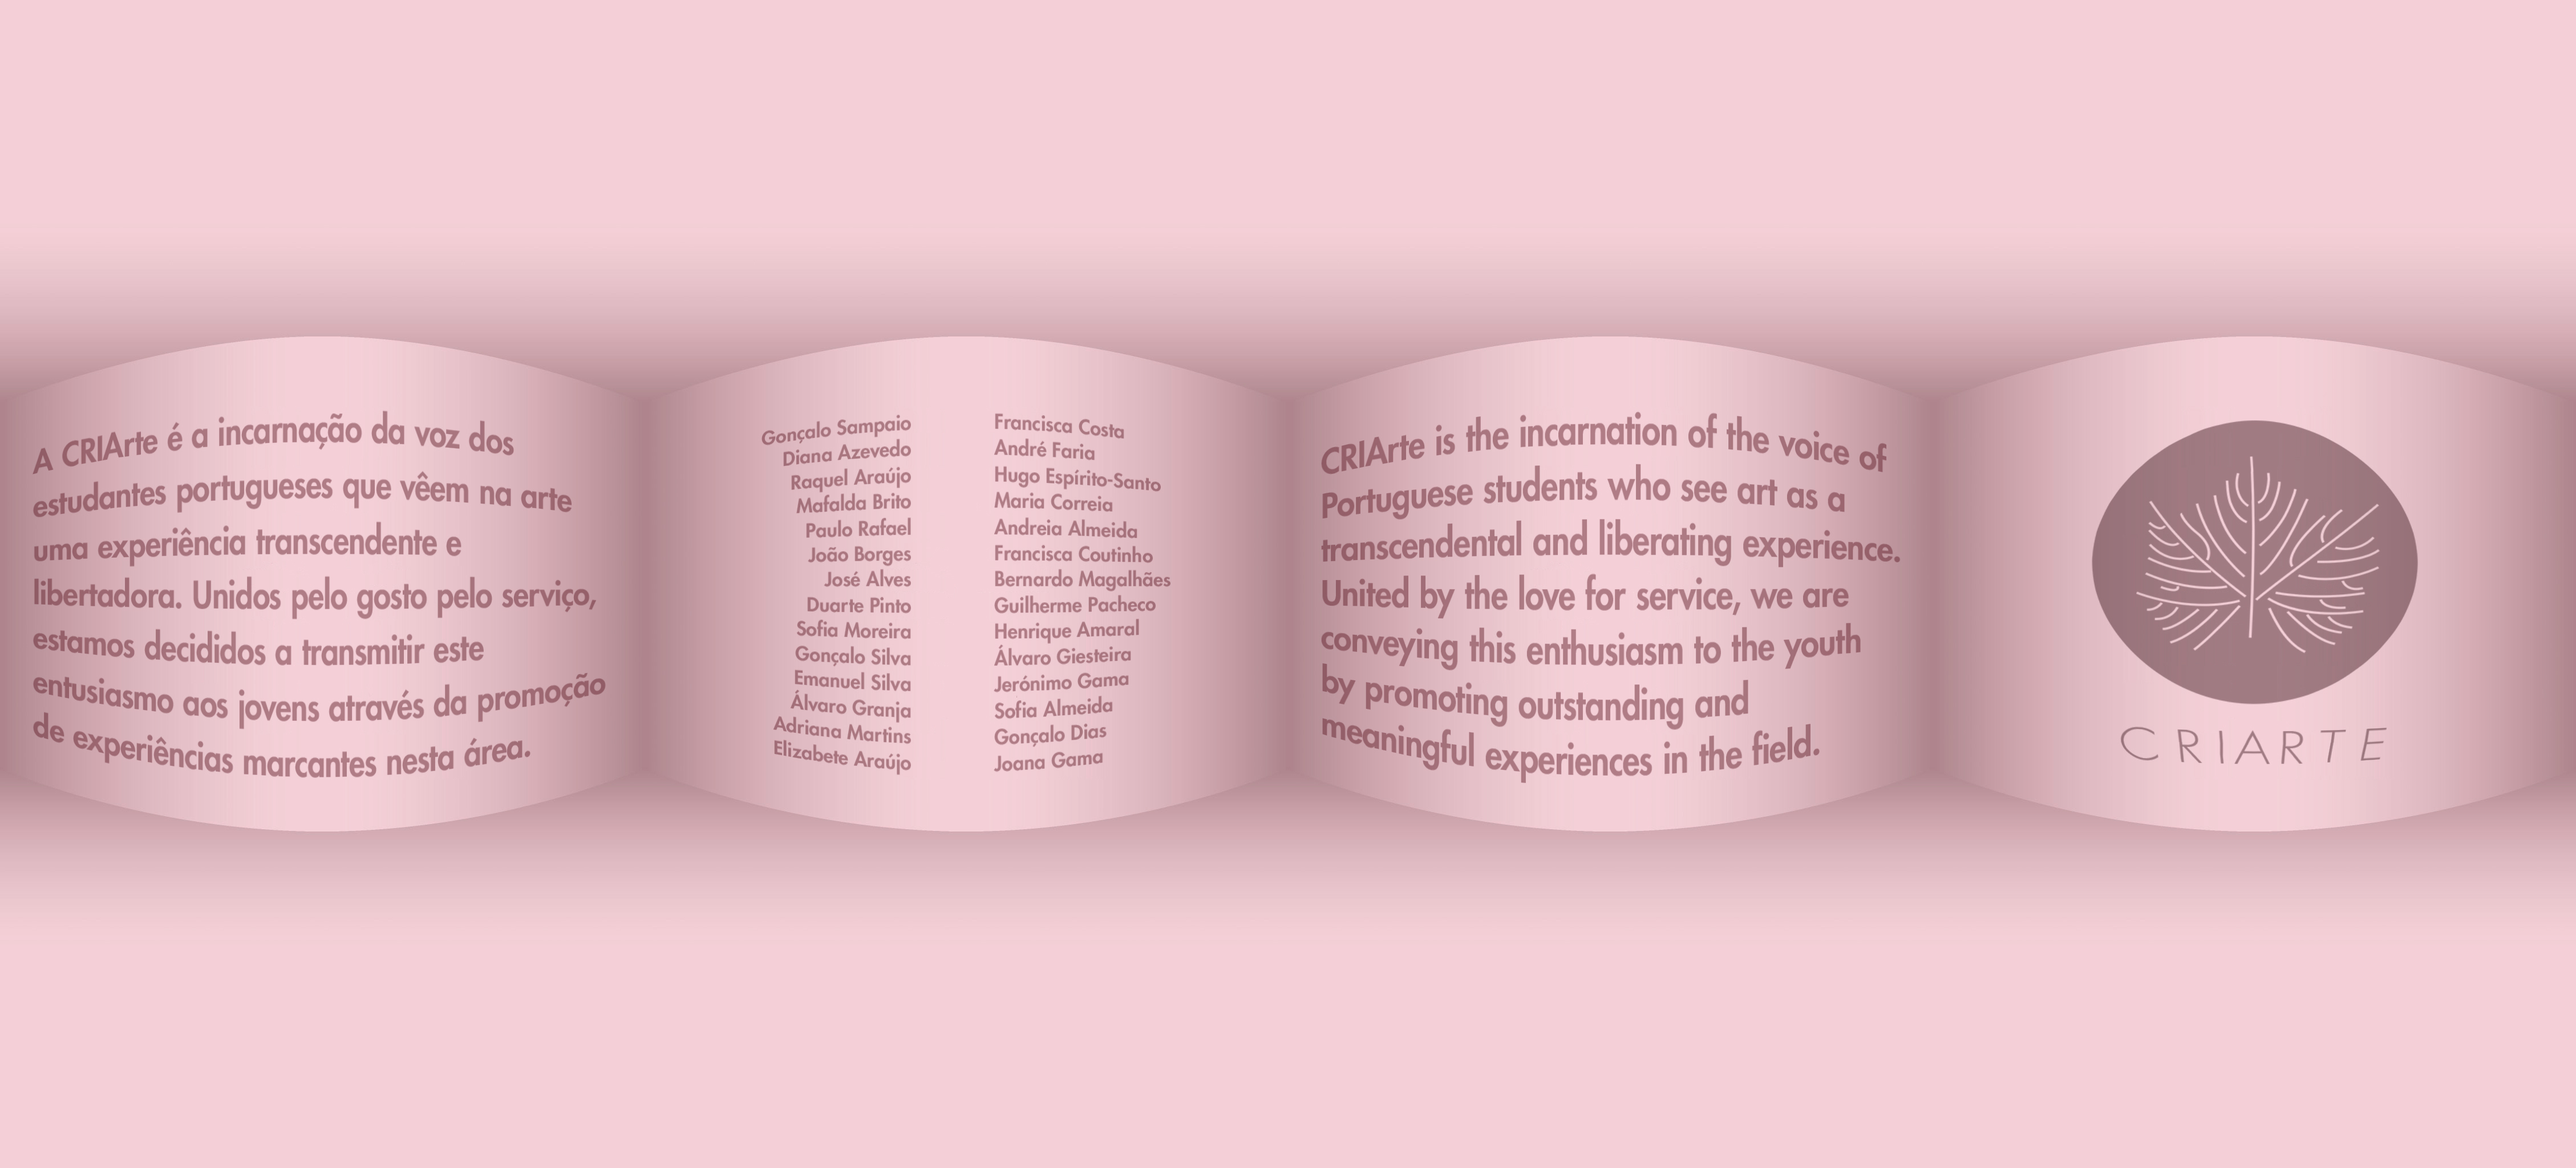
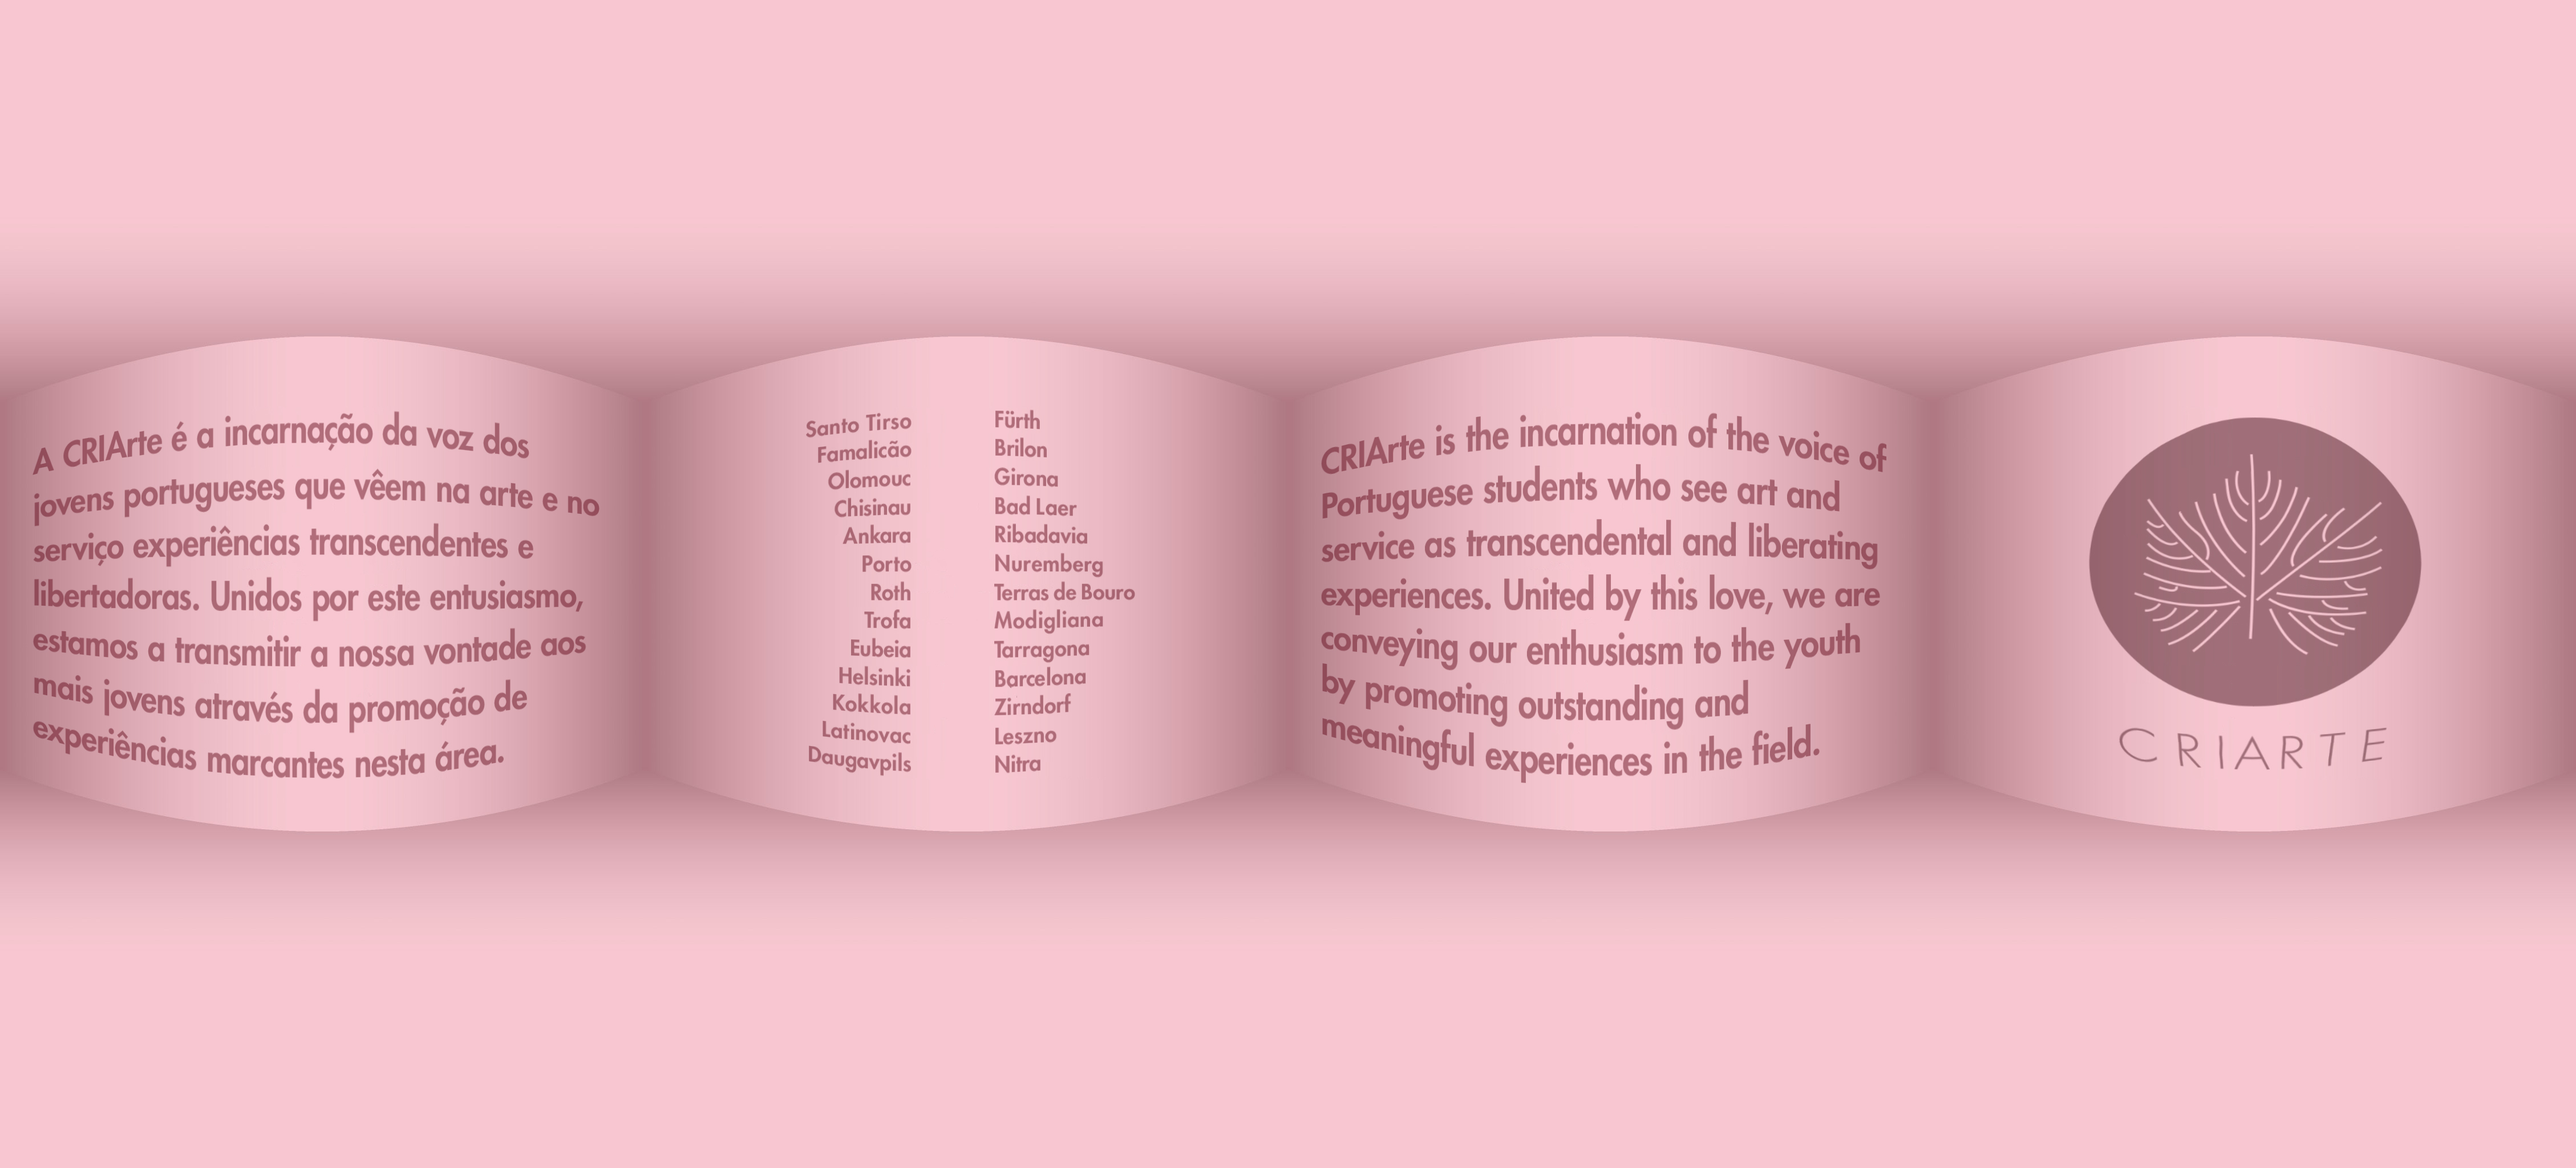
nu

diff --git a/index.html b/index.html
@@ -1,15 +1,16 @@
 <html><head><meta http-equiv="Content-Type" content="text/html; charset=windows-1252">
         <title>Associa&ccedil;&atilde;o CRIArte</title>
-        <meta name="description" content="CRIArte is the incarnation of the voice of Portuguese students who see art as a transcendental and liberating experience. United by the love for service, we are conveying this enthusiasm to the youth by promoting outstanding and meaningful experiences in the field.">
+        <meta name="description" content="CRIArte is the incarnation of the voice of Portuguese students who see art and service as transcendental and liberating experiences. United by this love, we are conveying our enthusiasm to the youth by promoting outstanding and meaningful experiences in the field.">
         <meta property="og:type" content="article">
-        <meta property="og:image" content="http://sampaio96.github.io/criarte/assets/press.jpg" />
-        <meta property="og:url" content="http://sampaio96.github.io/criarte">
-        <meta property="og:description" content="CRIArte is the incarnation of the voice of Portuguese students who see art as a transcendental and liberating experience. United by the love for service, we are conveying this enthusiasm to the youth by promoting outstanding and meaningful experiences in the field.">
+        <meta property="og:image" content="http://associacao-criarte.github.io/assets/press.jpg" />
+        <meta property="og:url" content="http://associacao-criarte.github.io">
+        <meta property="og:description" content="CRIArte is the incarnation of the voice of Portuguese students who see art and service as transcendental and liberating experiences. United by this love, we are conveying our enthusiasm to the youth by promoting outstanding and meaningful experiences in the field.">
         <meta name="twitter:card" content="summary_large_image">
         <meta name="twitter:site" content="@gsampaio96">
         <meta name="twitter:creator" content="@gsampaio96">
-        <meta name="twitter:title" content="CRIArte is the incarnation of the voice of Portuguese students who see art as a transcendental and liberating experience. United by the love for service, we are conveying this enthusiasm to the youth by promoting outstanding and meaningful experiences in the field.">
-        <meta name="twitter:image" content="http://sampaio96.github.io/criarte/assets/press.jpg">
+        <meta name="twitter:title" content="CRIArte is the incarnation of the voice of Portuguese students who see art and service as transcendental and liberating experiences. United by this love, we are conveying our enthusiasm to the youth by promoting outstanding and meaningful experiences in the field."><!-- 
+        A CRIArte é a incarnação da voz dos jovens portugueses que vêem na arte e no serviço uma experiência transcendente e libertadora. Unidos por este entusiasmo, estamos a transmitir a nossa vontade aos jovens através da promoção de experiências marcantes nesta área. -->
+        <meta name="twitter:image" content="http://associacao-criarte.github.io/assets/press.jpg">
         
         <meta name="viewport" content="width=device-width">
         <link rel="stylesheet" href="./room.css">
@@ -40,20 +41,20 @@
 </script>
 
 <script type="text/javascript">
-        window.onload = alternatepten();
+    window.onload = alternatepten();
 
-        function alternatepten() {
-            setInterval(function() {
-                if (document.getElementById("pt").style.display == "none") {
-                    document.getElementById("pt").style.display = "flex";
-                    document.getElementById("en").style.display = "none";
-                }
-                else {
-                    document.getElementById("pt").style.display = "none";
-                    document.getElementById("en").style.display = "flex";
-                }
-            }, 4000);
-        }
+    function alternatepten() {
+        setInterval(function() {
+            if (document.getElementById("pt").style.display == "none") {
+                document.getElementById("pt").style.display = "flex";
+                document.getElementById("en").style.display = "none";
+            }
+            else {
+                document.getElementById("pt").style.display = "none";
+                document.getElementById("en").style.display = "flex";
+            }
+        }, 4000);
+    }
 </script>
 
 
@@ -66,24 +67,34 @@
                 <span class="title small"><center>Associa&ccedil;&atilde;o CRIArte</center></span>
 
                 <span class="subtitle M">Miss&atilde;o</span>
-                <span class="para M"><center>Promo&ccedil;&atilde;o de cultura,</br>Organiza&ccedil;&atilde;o de eventos sem fins lucrativos</center></span>
+                <span class="para M"><center>Promo&ccedil;&atilde;o de cultura e voluntariado,
+                </br>Organiza&ccedil;&atilde;o de eventos sem fins lucrativos</center></span>
 
-                <span class="subtitle L">Localiza&ccedil;&atilde;o</span>
+                <!-- <span class="subtitle L">Localiza&ccedil;&otilde;es</span>
                 <span class="para L"><center>Vila Nova de Famalic&atilde;o</center></span>
+                <span class="para L"><center>Santo Tirso</center></span>
+                <span class="para L"><center>Trofa</center></span>
+                <span class="para L"><center>Porto</center></span>
+                <span class="para L"><center>Portugal</center></span> -->
                 
-                <span class="outside"><a href="https://www.facebook.com/snipsterism" target="_blank">Acompanha a cultura</a></span>
+                <span class="outside"><a href="https://www.facebook.com/snipsterism" target="_blank">Encontra oportunidades</a></span>
             </div>
             <div class="love" id="en">
                 <span class="title big"><center>Associa&ccedil;&atilde;o Cultural</br>Recreativa</br>Independente</br>ARTE</center></span>
                 <span class="title small"><center>Associa&ccedil;&atilde;o CRIArte</center></span>
 
                 <span class="subtitle M">Mission</span>
-                <span class="para M"><center>Promotion of culture,</br>Nonprofit event management</center></span>
+                <span class="para M"><center>Promotion of culture and volunteering,
+                </br>Nonprofit event management</center></span>
 
-                <span class="subtitle L">Location</span>
+                <!-- <span class="subtitle L">Locations</span>
                 <span class="para L"><center>Vila Nova de Famalic&atilde;o</center></span>
+                <span class="para L"><center>Santo Tirso</center></span>
+                <span class="para L"><center>Trofa</center></span>
+                <span class="para L"><center>Porto</center></span>
+                <span class="para L"><center>Portugal</center></span> -->
                 
-                <span class="outside"><a href="https://www.facebook.com/snipsterism" target="_blank">Follow the culture</a></span>
+                <span class="outside"><a href="https://www.facebook.com/snipsterism" target="_blank">Find opportunities</a></span>
             </div>
         </div>
         

diff --git a/room.css b/room.css
@@ -15,22 +15,30 @@ html, body { background-color: transparent; margin: 0px; overflow: hidden; curso
 
 .small { display: none; }
 
-.subtitle { font-size: 0.7em; letter-spacing: 0.3em; margin-bottom: 0em; text-transform: uppercase; }
+.subtitle { font-size: 0.7em; letter-spacing: 0.3em; margin-bottom: 0.8em; text-transform: uppercase; margin-top: 0.8em;}
 
-.para { font-size: 1.5em; font-weight: lighter; margin-bottom: 1.5em; }
+.small {
+  margin-bottom: 0.8em;
+}
 
-.outside { font-size: 1em; padding-bottom: 0.2em; border-bottom: 0.2em #fff6f8 solid; margin-top: 1em; margin-bottom: 1em; }
+.para { font-size: 1.5em; font-weight: lighter; margin-bottom: 1.5em; line-height: 1.8; }
+
+.outside { font-size: 1em; padding-bottom: 0.2em; border-bottom: 0.2em #fff6f8 solid; margin-top: 0.5em; margin-bottom: 1em; }
 
 a, a:link, a:hover, a:active, a:visited { text-decoration: none; color: #fff6f8; }
 
 
 /* Change C R I A to CRIArte*/
-@media only screen and (min-width: 320px) and (max-width: 736px) {
+@media only screen and (min-width: 320px) and (max-width: 736px), (max-height: 570px) {
   .big { display: none; }
   
   .small { display: block; }
 
   .L { display: none; }
+
+  .outside {
+    margin-top: 0.3em;
+  }
 }
 
 /* Remove background */
@@ -50,4 +58,8 @@ a, a:link, a:hover, a:active, a:visited { text-decoration: none; color: #fff6f8;
   .outside { margin-top: 0; }
 
   .L { display: block; }
+}
+
+@media (max-height: 690px) {
+
 }

diff --git a/README.md b/README.md
@@ -5,3 +5,4 @@ A CRIArte é a incarnação da voz dos estudantes portugueses que vêem na arte 
 CRIArte is the incarnation of the voice of Portuguese students who see art as a transcendental and liberating experience. United by the love for service, we are conveying this enthusiasm to the youth by promoting outstanding and meaningful experiences in the field.
 
 Fundada em Janeiro de 2014.
+# criarte
